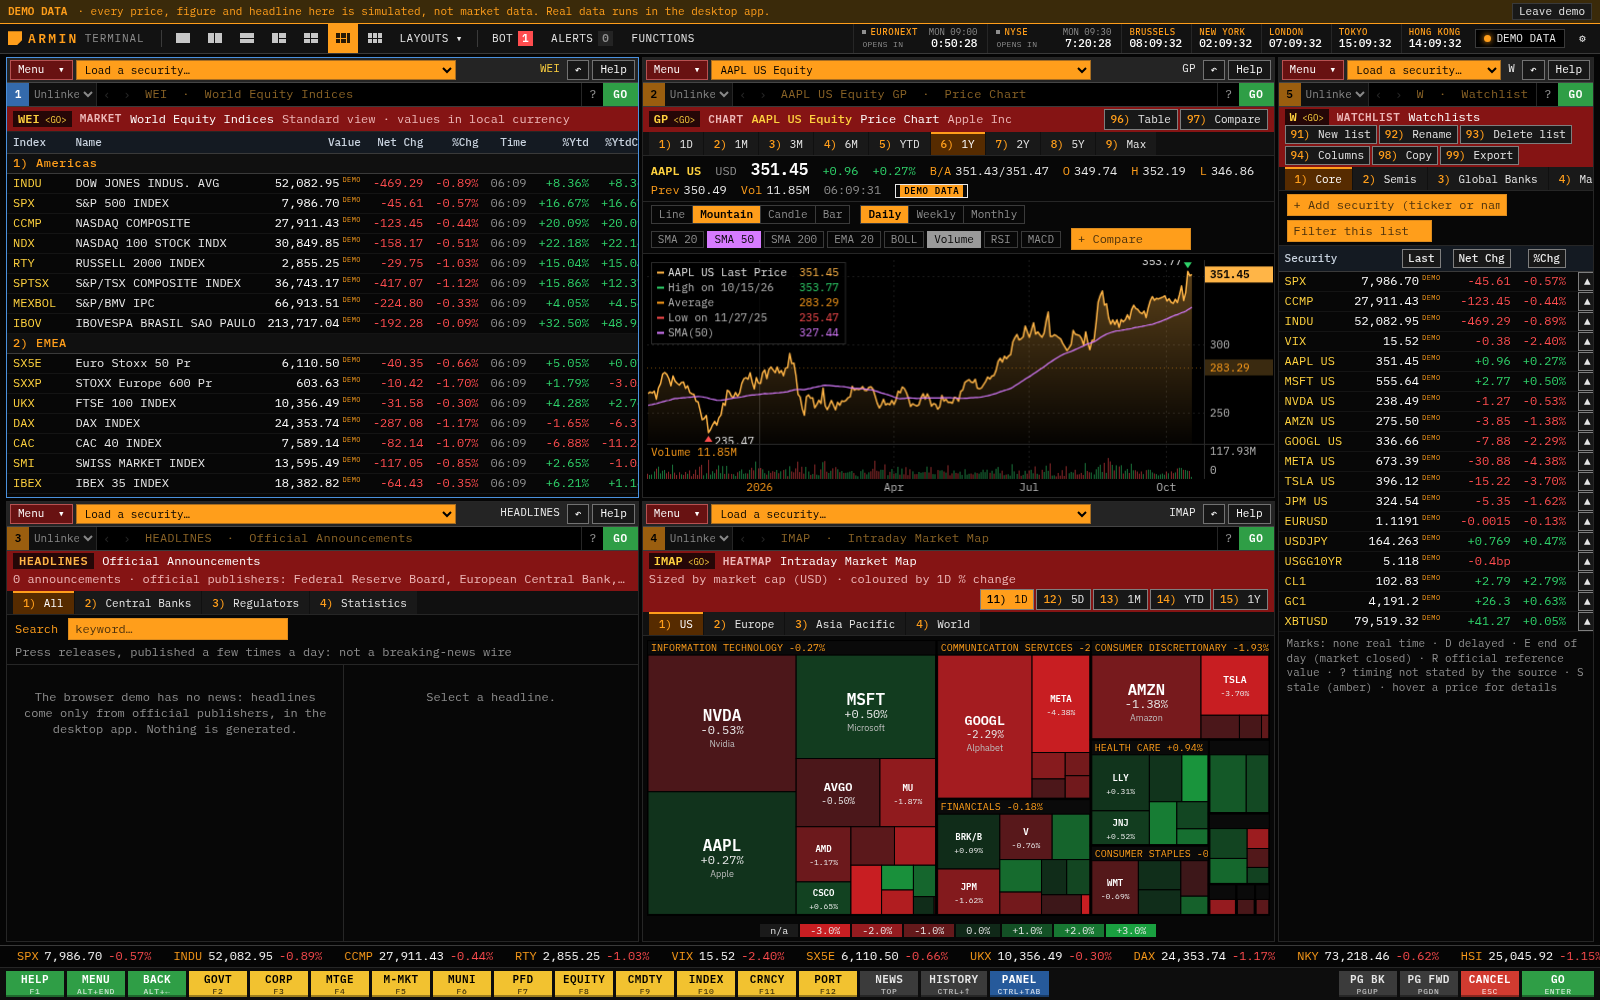
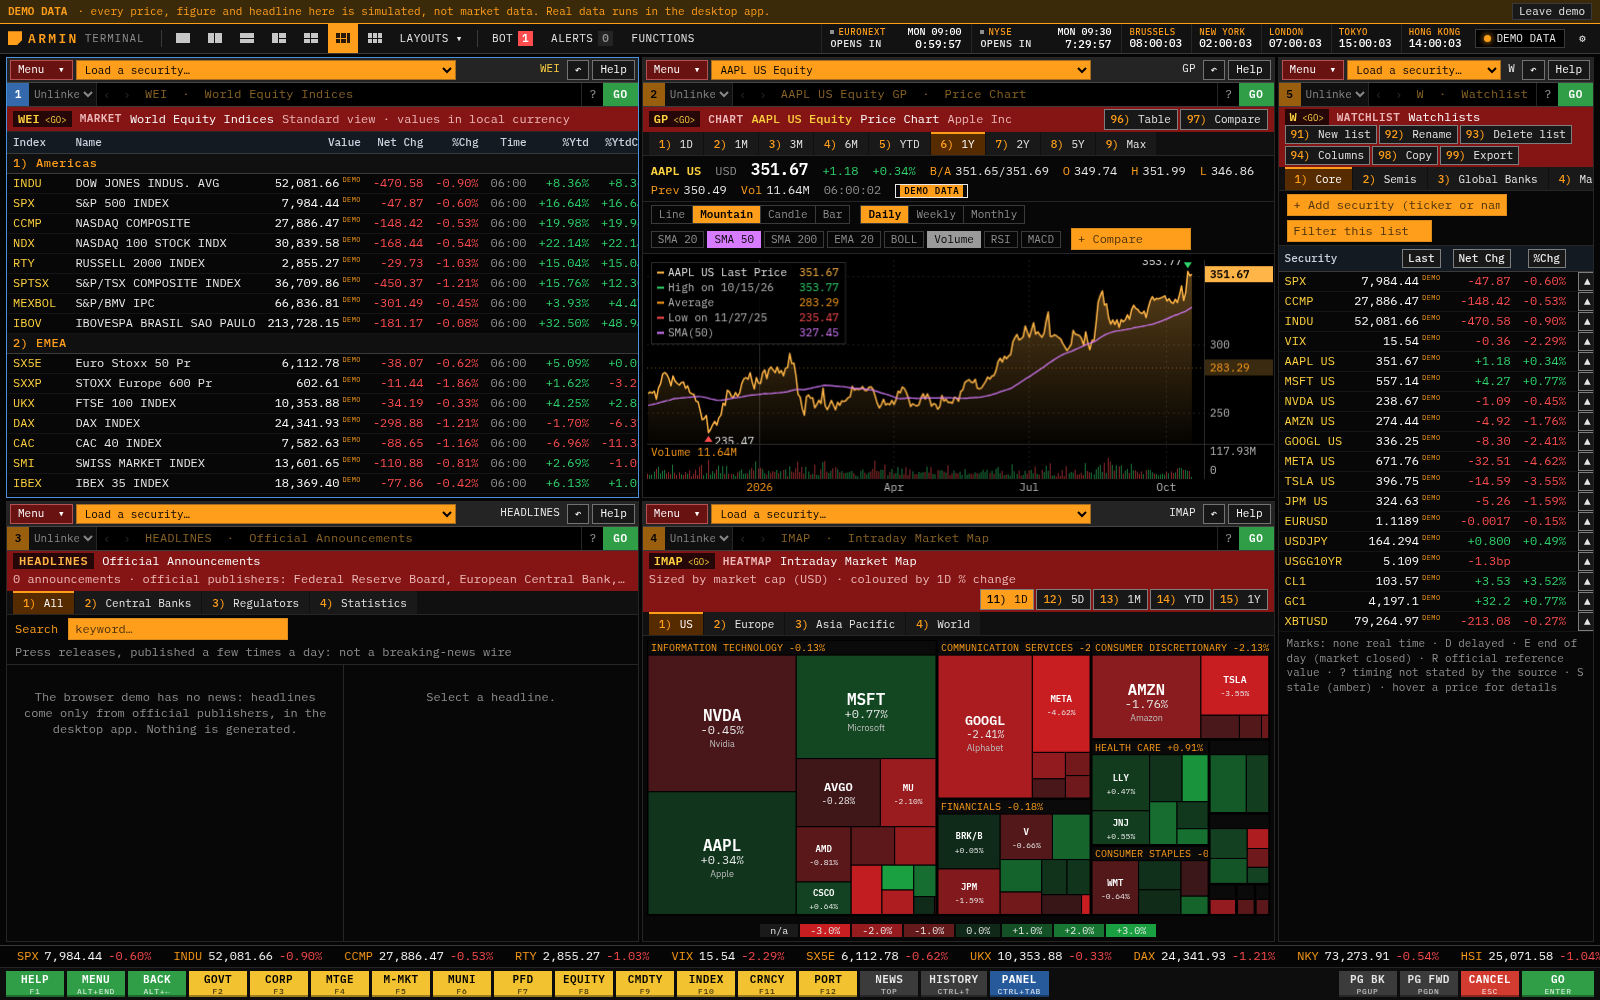
Improve market timer label contrast and legibility

diff --git a/src/styles/global.css b/src/styles/global.css
@@ -155,13 +155,13 @@ button { cursor: pointer; }
 .clock-label { color: var(--amber); font-size: 9px; font-weight: 500; letter-spacing: 0.04em; }
 .clock-value { color: var(--white); font-size: var(--fs-s); font-weight: 500; font-variant-numeric: tabular-nums; }
 /* Market session controls have their own hierarchy, separate from city clocks. */
-.market-timer { display: flex; flex-direction: column; justify-content: center; flex: 0 0 132px; gap: 2px; padding: 2px 8px; border: 0; border-left: 1px solid var(--line); background: transparent; text-align: left; line-height: 1; }
+.market-timer { display: flex; flex-direction: column; justify-content: center; flex: 0 0 148px; gap: 2px; padding: 2px 8px; border: 0; border-left: 1px solid var(--line); background: transparent; text-align: left; line-height: 1; }
 .market-timer:hover { background: var(--bg-4); }
 .market-timer-header, .market-timer-countdown { display: flex; align-items: center; justify-content: space-between; gap: 4px; white-space: nowrap; }
 .market-timer-name { display: inline-flex; align-items: center; gap: 4px; color: var(--amber); font-size: 9px; font-weight: 500; letter-spacing: 0.06em; text-transform: uppercase; }
 .market-timer-name::before { content: ''; width: 4px; height: 4px; background: var(--muted); }
-.market-timer-schedule { color: var(--muted); font-size: 9px; font-variant-numeric: tabular-nums; }
-.market-timer-action { color: var(--muted); font-size: 8px; letter-spacing: 0.04em; }
+.market-timer-schedule { color: var(--white); font-size: 10px; font-weight: 500; font-variant-numeric: tabular-nums; }
+.market-timer-action { color: var(--text); font-size: 10px; font-weight: 500; letter-spacing: 0.04em; }
 .market-timer-value { color: var(--white); font-size: var(--fs-s); font-weight: 500; font-variant-numeric: tabular-nums; letter-spacing: 0; }
 .market-timer.is-open .market-timer-value { color: var(--up); }
 .market-timer.is-open .market-timer-name::before { background: var(--up); }
